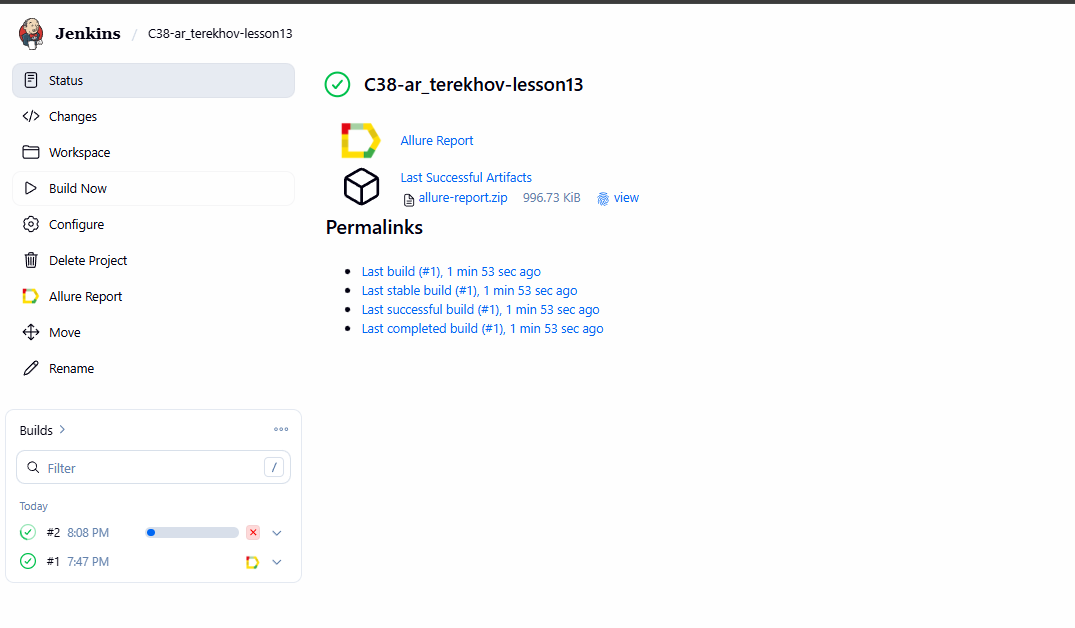
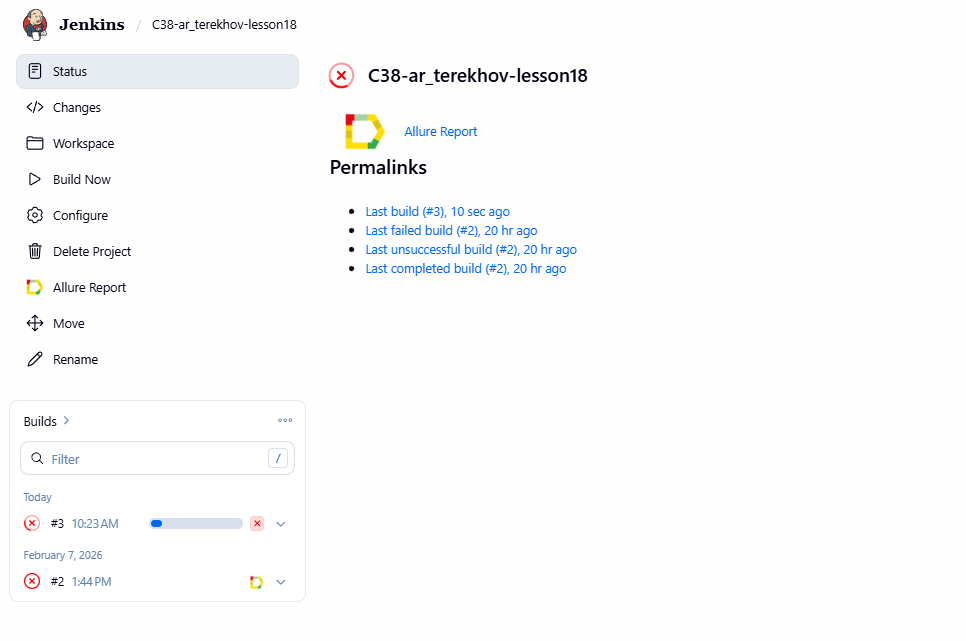
update files + readme

diff --git a/README.md b/README.md
@@ -1,6 +1,6 @@
 # Проект автоматизации [Wikipedia](https://www.wikipedia.org/)
 
-> Wikipedia is a free online encyclopedia, created and edited by volunteers around the world and hosted by the Wikimedia Foundation.
+> Википедия — это бесплатная онлайн-энциклопедия, созданная и редактируемая волонтерами со всего мира и размещенная на серверах Фонда Викимедиа.
 
 ## **Содержание:**
 ____
